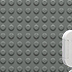
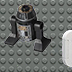
add new map elements and change the game map again, and specify the movement, indexOutOfBoundsException is solved.

diff --git a/Week-05/Wanderer 2.0/src/GameCharacter.java b/Week-05/Wanderer 2.0/src/GameCharacter.java
@@ -8,17 +8,55 @@ public class GameCharacter extends GameObject {
   public GameCharacter() {
   }
 
-  public void MoveUp() {
-    posY = (posY - 1);
+  public boolean notOutOfBounds(double x, double y, double [][] wallMatrix) {
+    if ((y < 0) && (y > wallMatrix.length)) {
+      return false;
+    } else if ((x < 0) && (x > wallMatrix.length)) {
+      return false;
+    }
+    return true;
   }
-  public void MoveDown() {
-    posY = (posY + 1);
-  }
-  public void MoveLeft() {
-    posX = (posX - 1);
-  }
-  public void MoveRight() {
-    posX = (posX + 1);
+  public boolean validField(double x, double y, double [][] wallMatrix) {
+    if ((posY >= 0 && posY <= wallMatrix.length - 1) && (posX >= 0 && posX <= wallMatrix.length - 1) && notOutOfBounds(x,y,wallMatrix)) {
+      return (wallMatrix[(int) y][(int) x] == 0);
+    }
+    return false;
   }
 
+  public void MoveUp(double [][] wallMatrix) {
+    try {
+      if (validField(posX, (posY) - 1, wallMatrix)) {
+        posY = (posY - 1);
+      }
+    } catch (ArrayIndexOutOfBoundsException error) {
+      MoveDown(wallMatrix);
+    }
+  }
+  public void MoveDown(double [][] wallMatrix) {
+    try {
+      if (validField(posX, (posY) + 1, wallMatrix)) {
+        posY = (posY + 1);
+      }
+    } catch (ArrayIndexOutOfBoundsException error) {
+      MoveUp(wallMatrix);
+    }
+  }
+  public void MoveLeft(double [][] wallMatrix) {
+    try {
+      if (validField((posX) - 1, posY, wallMatrix)) {
+        posX = (posX - 1);
+      }
+    } catch (ArrayIndexOutOfBoundsException error) {
+      MoveRight(wallMatrix);
+    }
+  }
+  public void MoveRight(double [][] wallMatrix) {
+    try {
+      if (validField((posX) + 1, posY, wallMatrix) && (notOutOfBounds((posX) + 1, posY, wallMatrix))) {
+        posX = (posX + 1);
+      }
+    } catch (ArrayIndexOutOfBoundsException error) {
+      MoveLeft(wallMatrix);
+    }
+  }
 }

diff --git a/Week-05/Wanderer 2.0/src/GameMap.java b/Week-05/Wanderer 2.0/src/GameMap.java
@@ -14,11 +14,11 @@ public class GameMap {
           {0, 1.1, 1.2, 1.3, 0, 0, 1.1, 1.2, 1.3, 0},
           {0, 1.4, 1.5, 1.6, 0, 0, 1.4, 1.5, 1.6, 0},
           {0, 0, 0, 0, 0, 0, 0, 0, 0, 0},
-          {0, 0, 1, 0, 0, 0, 0, 1, 0, 0},
-          {0, 1.1, 1.2, 1.3, 0, 0, 1.1, 1.2, 1.3, 0},
-          {0, 1.4, 1.5, 1.6, 0, 0, 1.4, 1.5, 1.6, 0},
+          {0, 0, 2.1, 0, 0, 0, 0, 2.1, 0, 0},
+          {0, 2.2, 2.3, 0, 0, 0, 2.2, 2.3, 0, 0},
+          {0, 2.4, 2.5, 2.6, 0, 0, 2.4, 2.5, 2.6, 0},
           {0, 0, 0, 0, 0, 0, 0, 0, 0, 0},
-          {0, 0, 1, 0, 0, 0, 0, 1, 0, 0},};
+          {0, 0, 0, 0, 0, 0, 0, 0, 0, 0},};
 
   public GameMap() {
 
@@ -27,7 +27,9 @@ public class GameMap {
       for (int j = 0; j < wallMatrix[i].length; j++) {
         MapTiles mapTiles = new MapTiles(j, i, wallMatrix[i][j] == 0, wallMatrix[i][j] == 1,
                 wallMatrix[i][j] == 1.1, wallMatrix[i][j] == 1.2, wallMatrix[i][j] == 1.3,
-                wallMatrix[i][j] == 1.4, wallMatrix[i][j] == 1.5, wallMatrix[i][j] == 1.6);
+                wallMatrix[i][j] == 1.4, wallMatrix[i][j] == 1.5, wallMatrix[i][j] == 1.6,
+                wallMatrix[i][j] == 2.1, wallMatrix[i][j] == 2.2, wallMatrix[i][j] == 2.3,
+                wallMatrix[i][j] == 2.4, wallMatrix[i][j] == 2.5, wallMatrix[i][j] == 2.6);
         tilesList.add(mapTiles);
         if (wallMatrix[i][j] == 0) {
           freeFieldX.add(mapTiles.posX);

diff --git a/Week-05/Wanderer 2.0/src/MapTiles.java b/Week-05/Wanderer 2.0/src/MapTiles.java
@@ -10,8 +10,15 @@ public class MapTiles extends GameObject {
   boolean wall5;
   boolean wall6;
   boolean wall7;
+  boolean wall8;
+  boolean wall9;
+  boolean wall10;
+  boolean wall11;
+  boolean wall12;
+  boolean wall13;
 
-  public MapTiles(int posX, int posY, boolean floor, boolean wall1, boolean wall2, boolean wall3, boolean wall4, boolean wall5, boolean wall6, boolean wall7) {
+  public MapTiles(int posX, int posY, boolean floor, boolean wall1, boolean wall2, boolean wall3, boolean wall4, boolean wall5,
+                  boolean wall6, boolean wall7,  boolean wall8, boolean wall9, boolean wall10, boolean wall11, boolean wall12, boolean wall13) {
     super(posX, posY, "floor.png");
     if (floor){
       pictureName = "floor.png";
@@ -29,7 +36,18 @@ public class MapTiles extends GameObject {
       pictureName = "wall6.png";
     }else if (wall7){
       pictureName = "wall7.png";
+    }else if (wall8){
+      pictureName = "walker1.png";
+    }else if (wall9){
+      pictureName = "walker2.png";
+    }else if (wall10){
+      pictureName = "walker3.png";
+    }else if (wall11){
+      pictureName = "walker4.png";
+    }else if (wall12){
+      pictureName = "walker5.png";
+    }else if (wall13){
+      pictureName = "walker6.png";
     }
-
   }
 }

diff --git a/Week-05/Wanderer 2.0/src/GameEngine.java b/Week-05/Wanderer 2.0/src/GameEngine.java
@@ -71,28 +71,20 @@ public class GameEngine extends JComponent implements KeyListener {
       counter--;
     }
     if ((e.getKeyCode() == KeyEvent.VK_UP) && (hero.posY > 0)) {
-      if (validField(hero.posX, (hero.posY) - 1)) {
-        hero.MoveUp();
-      }
+        hero.MoveUp(map.wallMatrix);
+
     } else if ((e.getKeyCode() == KeyEvent.VK_DOWN) && (hero.posY < map.wallMatrix.length - 1)) {
-      if (validField(hero.posX, (hero.posY) + 1)) {
-        hero.MoveDown();
-      }
+        hero.MoveDown(map.wallMatrix);
+
     } else if ((e.getKeyCode() == KeyEvent.VK_LEFT) && (hero.posX > 0)) {
-      if (validField((hero.posX) - 1, hero.posY)) {
-        hero.MoveLeft();
-      }
+        hero.MoveLeft(map.wallMatrix);
+
     } else if ((e.getKeyCode() == KeyEvent.VK_RIGHT) && (hero.posX < map.wallMatrix.length - 1)) {
-      if (validField((hero.posX) + 1, hero.posY)) {
-        hero.MoveRight();
-      }
+        hero.MoveRight(map.wallMatrix);
     }
     repaint();
   }
 
-  public boolean validField(double x, double y) {
-    return (map.wallMatrix[(int)y][(int)x] == 0);
-  }
 
   public void enemyMove() {
     for (int i = 0; i < enemyList.size(); i++) {

diff --git a/Week-05/Wanderer 2.0/src/Enemy.java b/Week-05/Wanderer 2.0/src/Enemy.java
@@ -8,24 +8,17 @@ public class Enemy extends GameCharacter {
     super(posX, posY, pictureName);
   }
 
+
   public void eMove(int temp, double [][] matrix, Hero hero) {
     if ((hero.posX != posX) || (hero.posY != posY)) {
       if (temp == 1) {
-        if ((posY > 0) && (matrix[(int) posY - 1][(int) posX] == 0) && (hero.posY <= posY)) {
-          super.MoveUp();
-        }
-      } else if (temp == 2) {
-        if ((posY < matrix.length - 1) && (matrix[(int) posY + 1][(int) posX] == 0) && (hero.posY >= posY)) {
-          super.MoveDown();
-        }
-      } else if (temp == 3) {
-        if ((posX > 0) && (matrix[(int) posY][(int) posX - 1] == 0) && (hero.posX <= posX)) {
-          super.MoveLeft();
-        }
-      } else if (temp == 4) {
-        if ((posX < matrix.length - 1) && (matrix[(int) posY][(int) posX + 1] == 0) && (hero.posX >= posX)) {
-          super.MoveRight();
-        }
+        super.MoveUp(matrix);
+      }else if (temp == 2) {
+        super.MoveDown(matrix);
+      }else if (temp == 3) {
+        super.MoveLeft(matrix);
+      }else if (temp == 4) {
+        super.MoveRight(matrix);
       }
     }
   }

diff --git a/Week-05/Wanderer 2.0/src/Hero.java b/Week-05/Wanderer 2.0/src/Hero.java
@@ -5,16 +5,16 @@ public class Hero extends GameCharacter {
     super(posX, posY, "hero-down.png");
   }
 
-  public void MoveUp(){
-    super.MoveUp();
+  public void MoveUp(double [][] wallMatrix){
+    super.MoveUp(wallMatrix);
   }
-  public void MoveDown(){
-    super.MoveDown();
+  public void MoveDown(double [][] wallMatrix){
+    super.MoveDown(wallMatrix);
   }
-  public void MoveLeft(){
-    super.MoveLeft();
+  public void MoveLeft(double [][] wallMatrix){
+    super.MoveLeft(wallMatrix);
   }
-  public void MoveRight(){
-    super.MoveRight();
+  public void MoveRight(double [][] wallMatrix){
+    super.MoveRight(wallMatrix);
   }
 }
